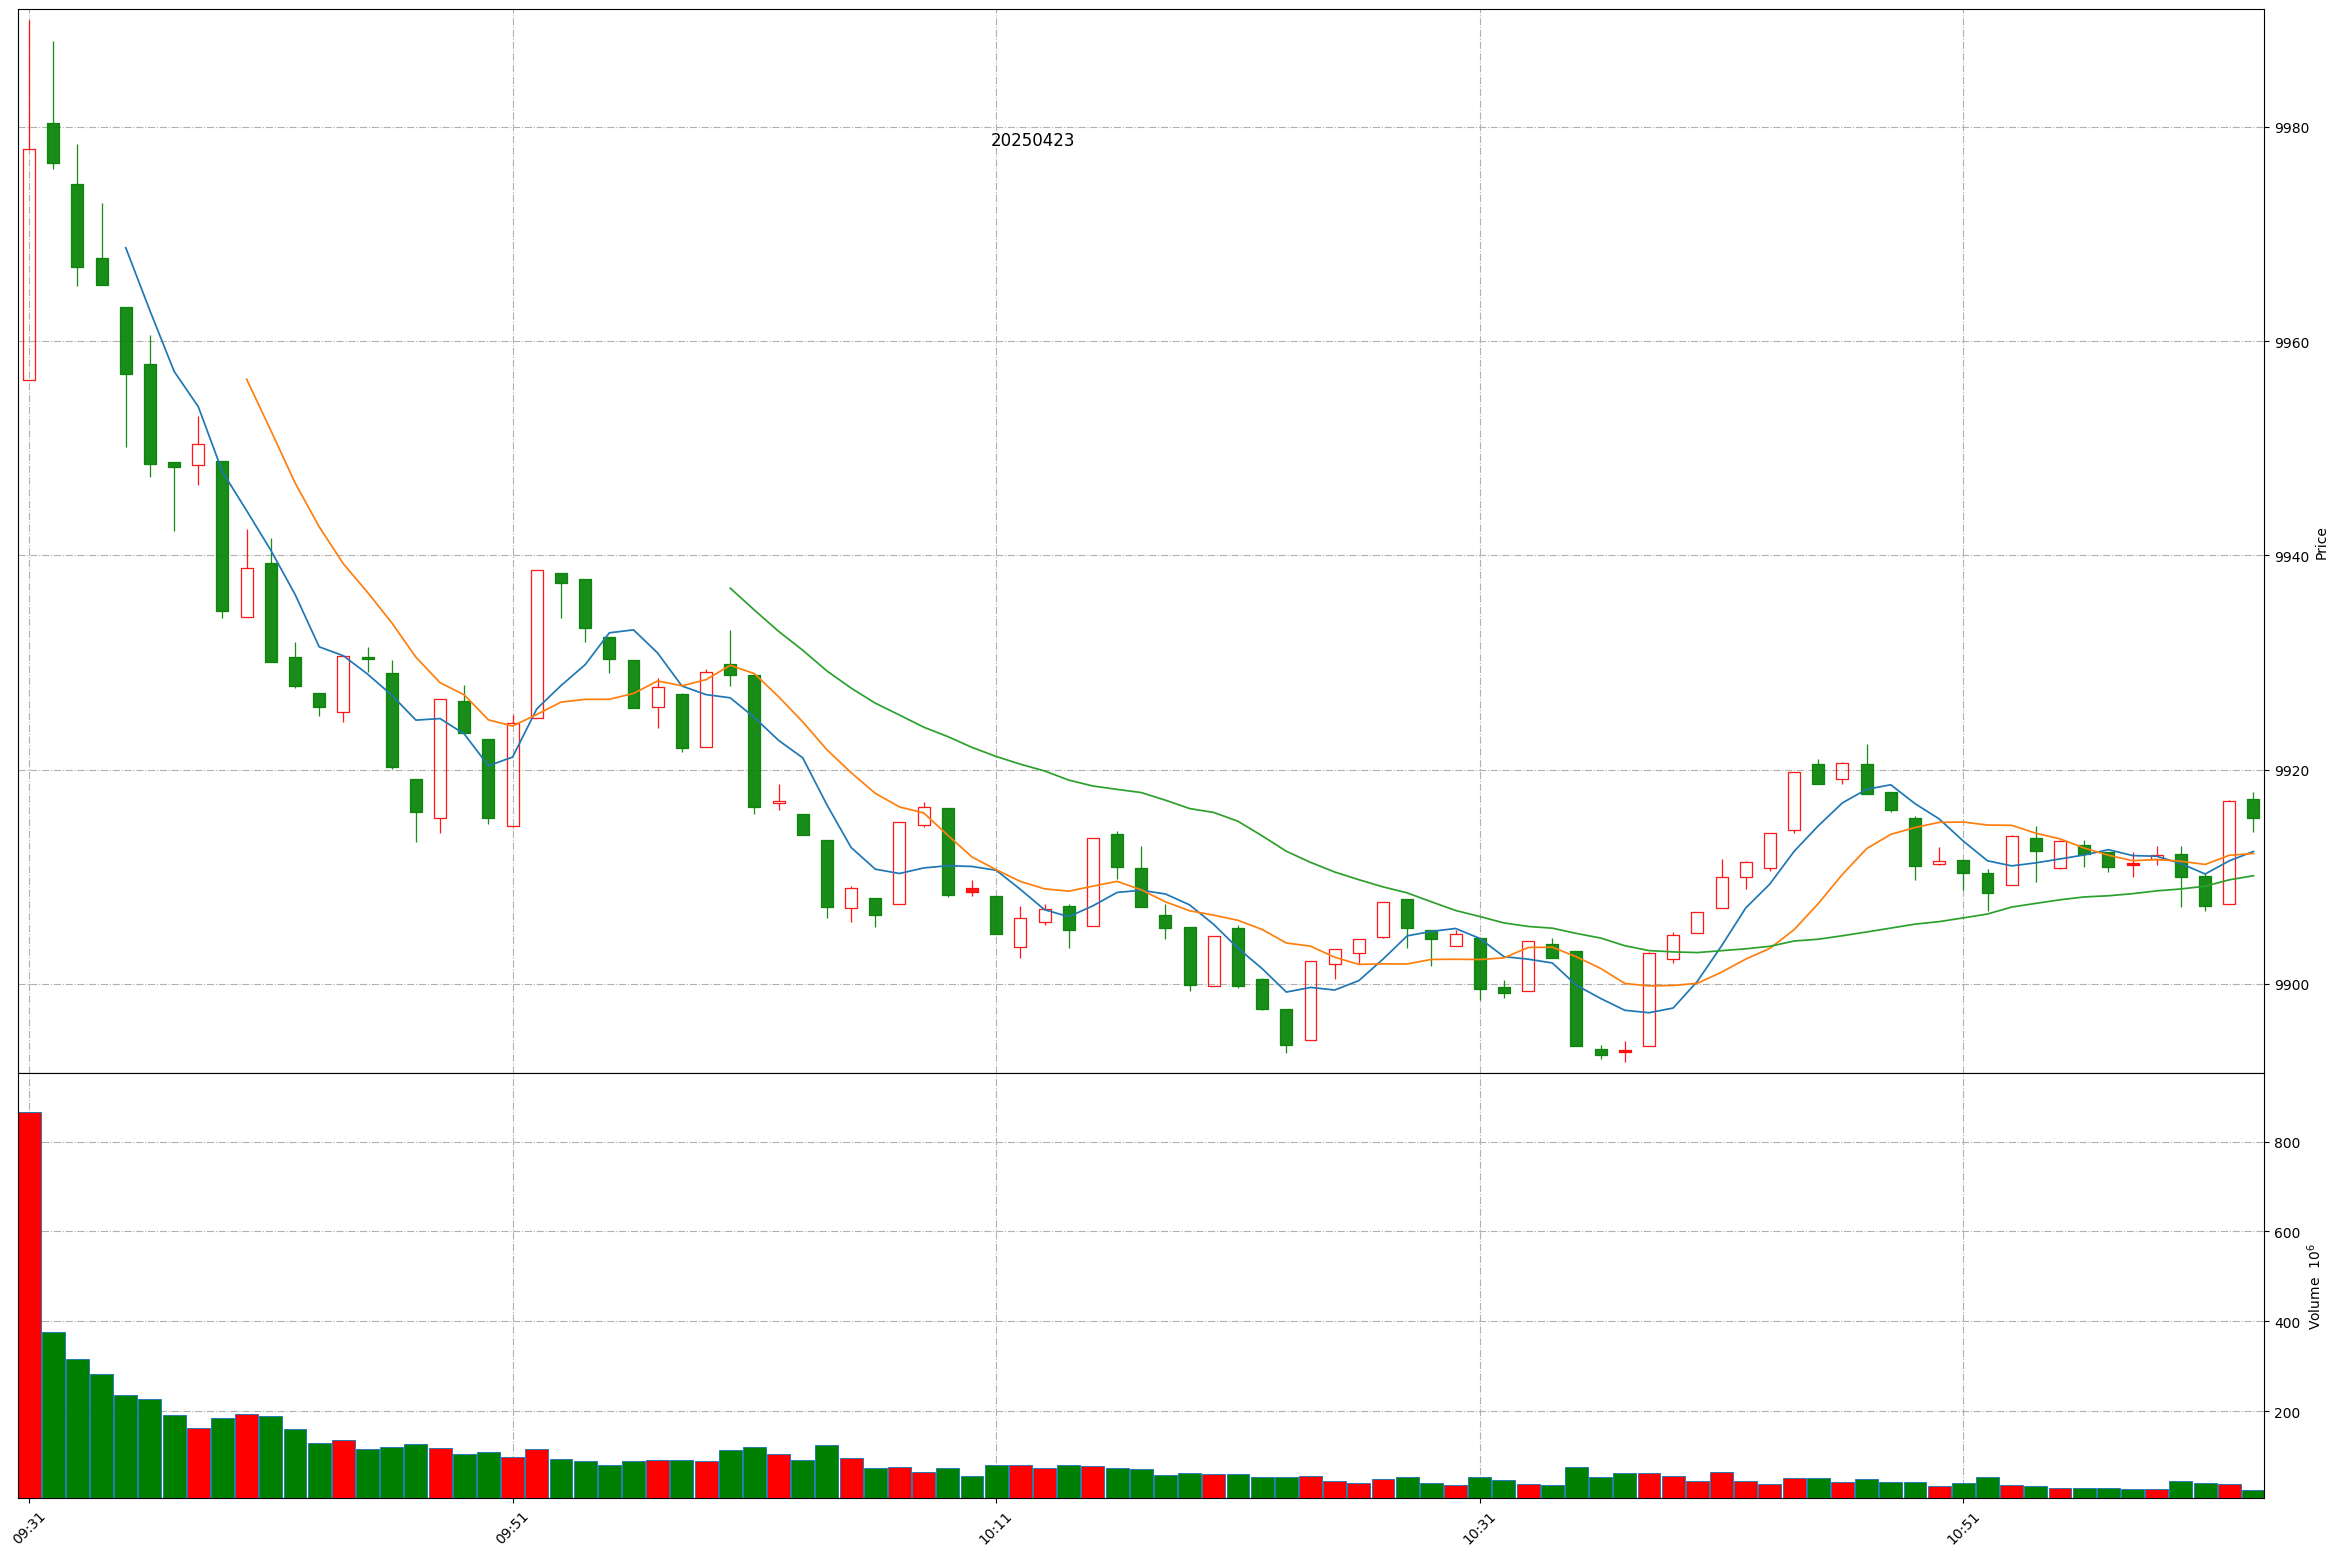
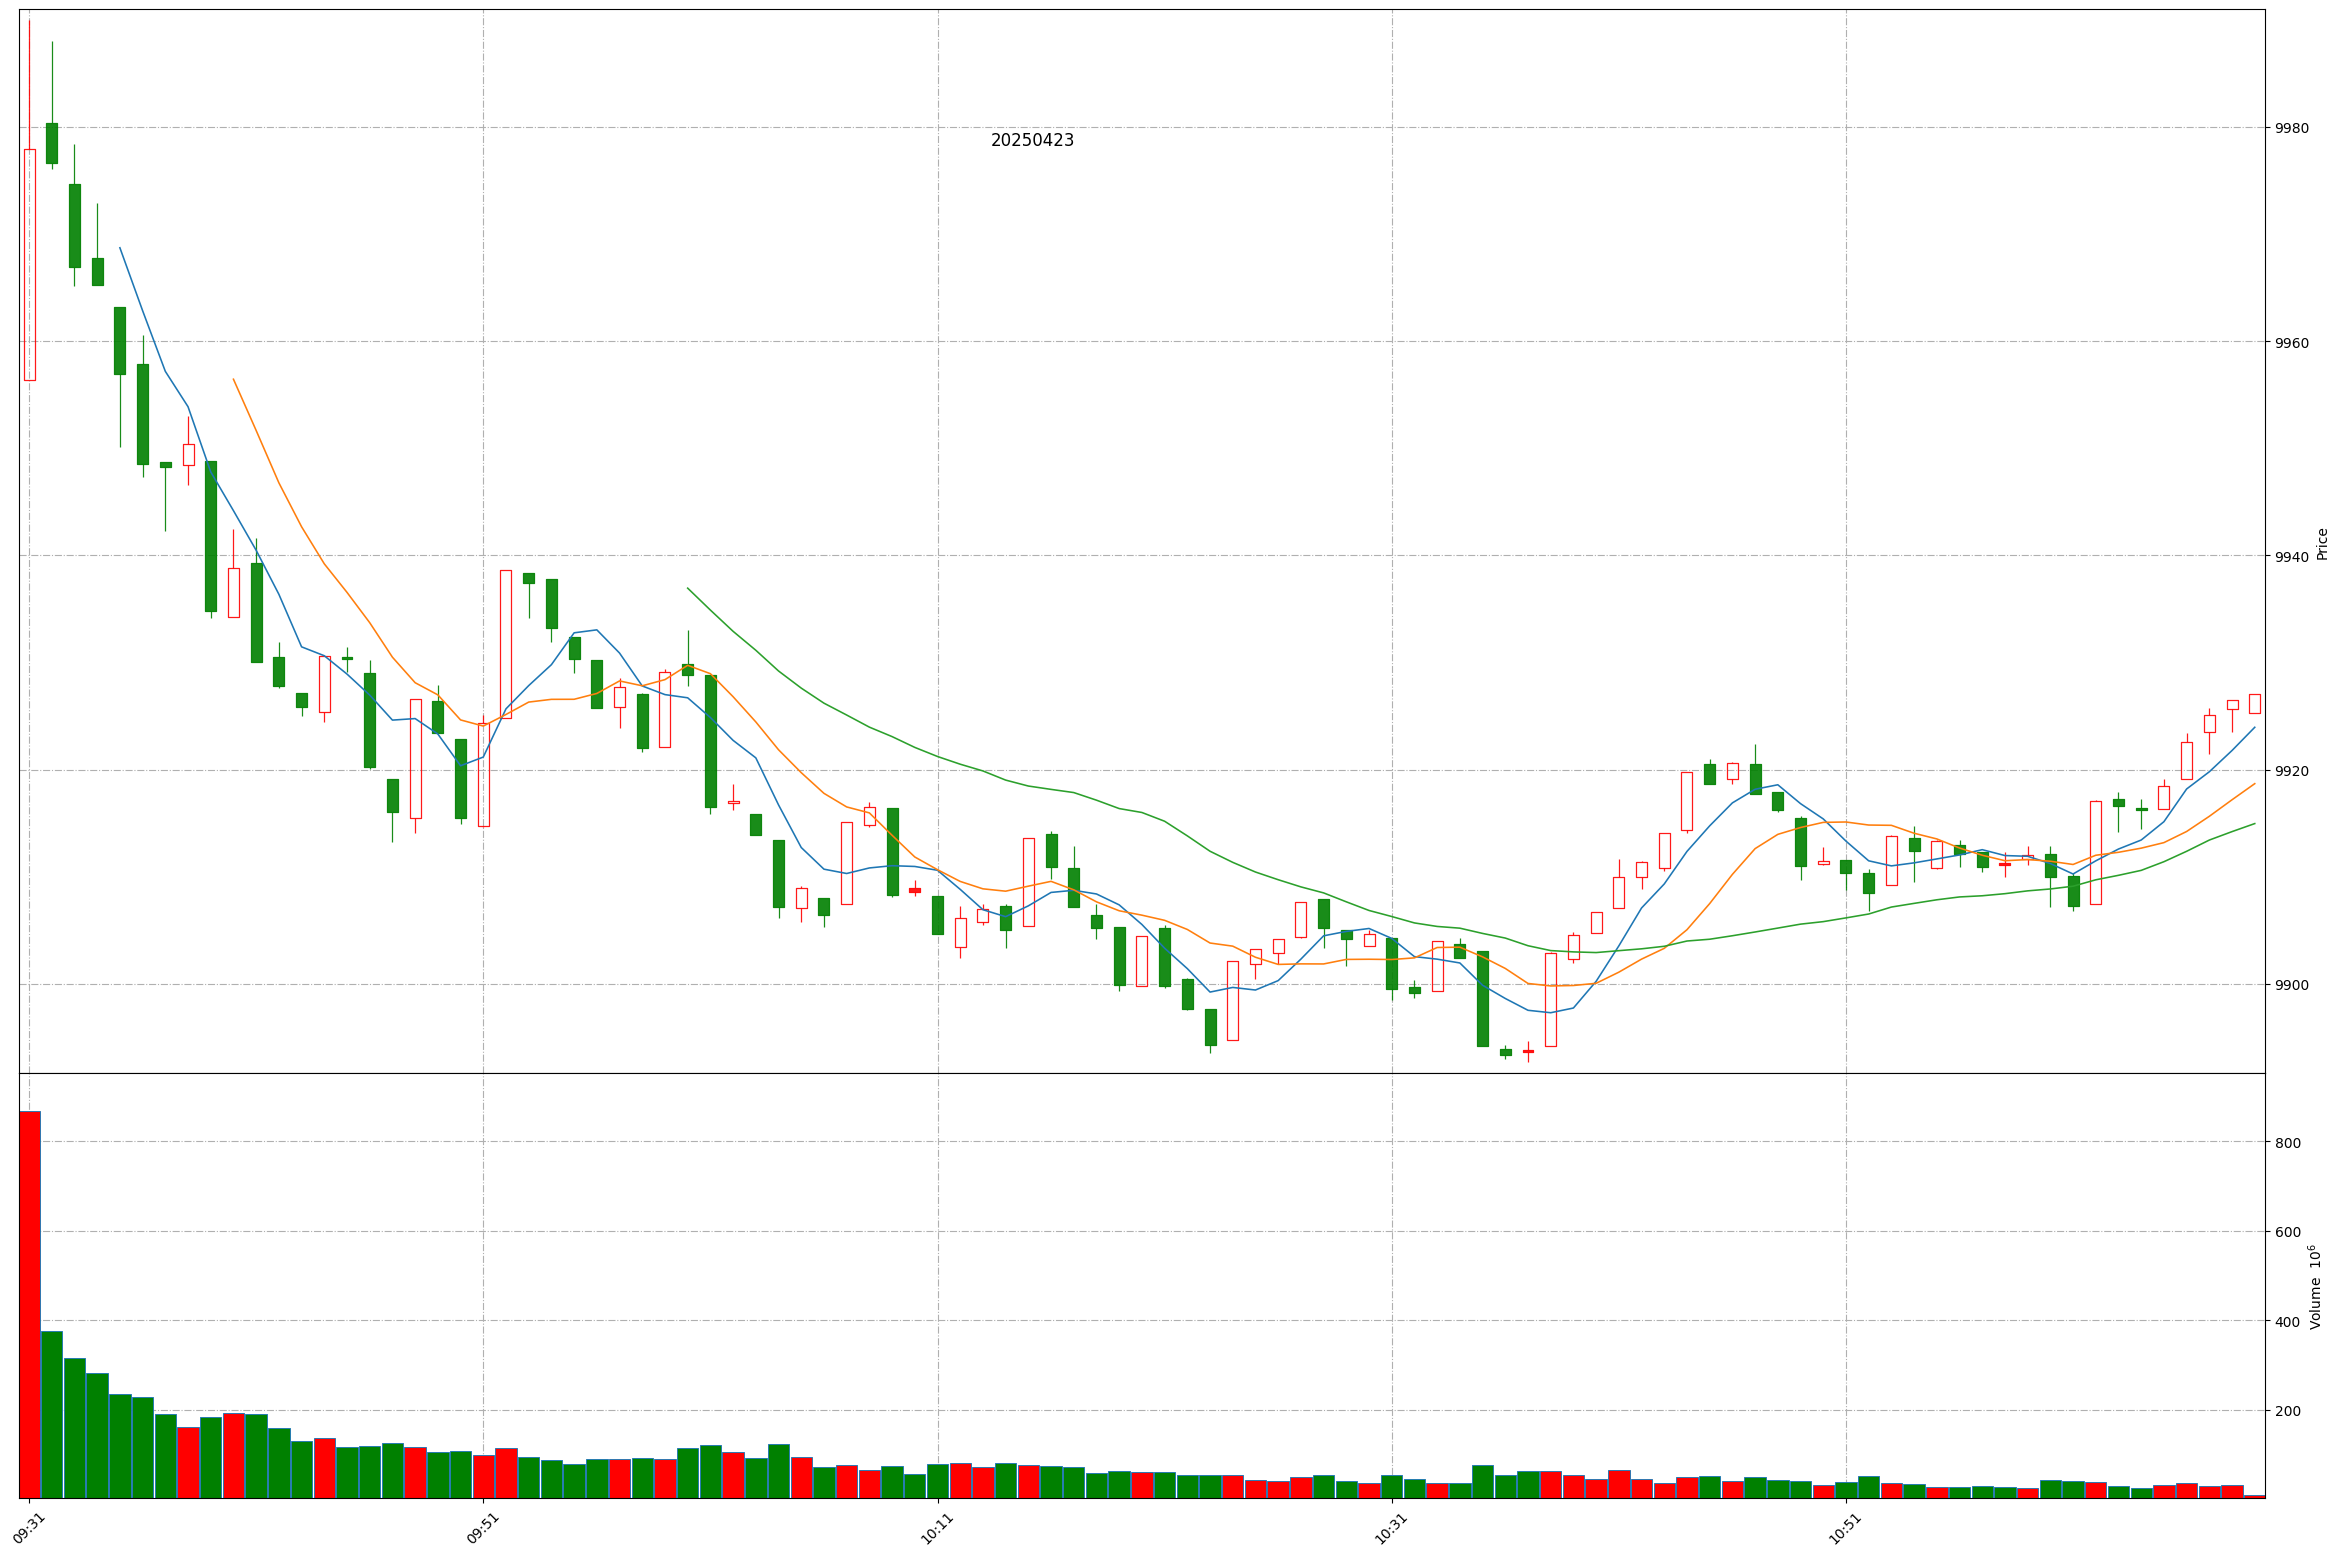
Github action update at 2025-04-23 11:08:30.

Changed region(s): [[0.0, 0.0925, 0.9679, 0.6787], [0.0, 0.8638, 0.8118, 0.9871], [0.843, 0.9254, 0.9679, 0.9871]]

diff --git a/README.md b/README.md
@@ -1,11 +1,11 @@
 
 # Daily-A-share-market-quotes 每日 A 股指数（5min 更新）- 20250423
 
-### 上证指数 20250423 11:3
+### 上证指数 20250423 11:8
 ![](./fig/2025/4/20250423-sh000001.png)
 
-### 深证成指 20250423 11:3
+### 深证成指 20250423 11:8
 ![](./fig/2025/4/20250423-sz399001.png)
 
-### 北证50 20250423 11:3
+### 北证50 20250423 11:8
 ![](./fig/2025/4/20250423-bj899050.png)
